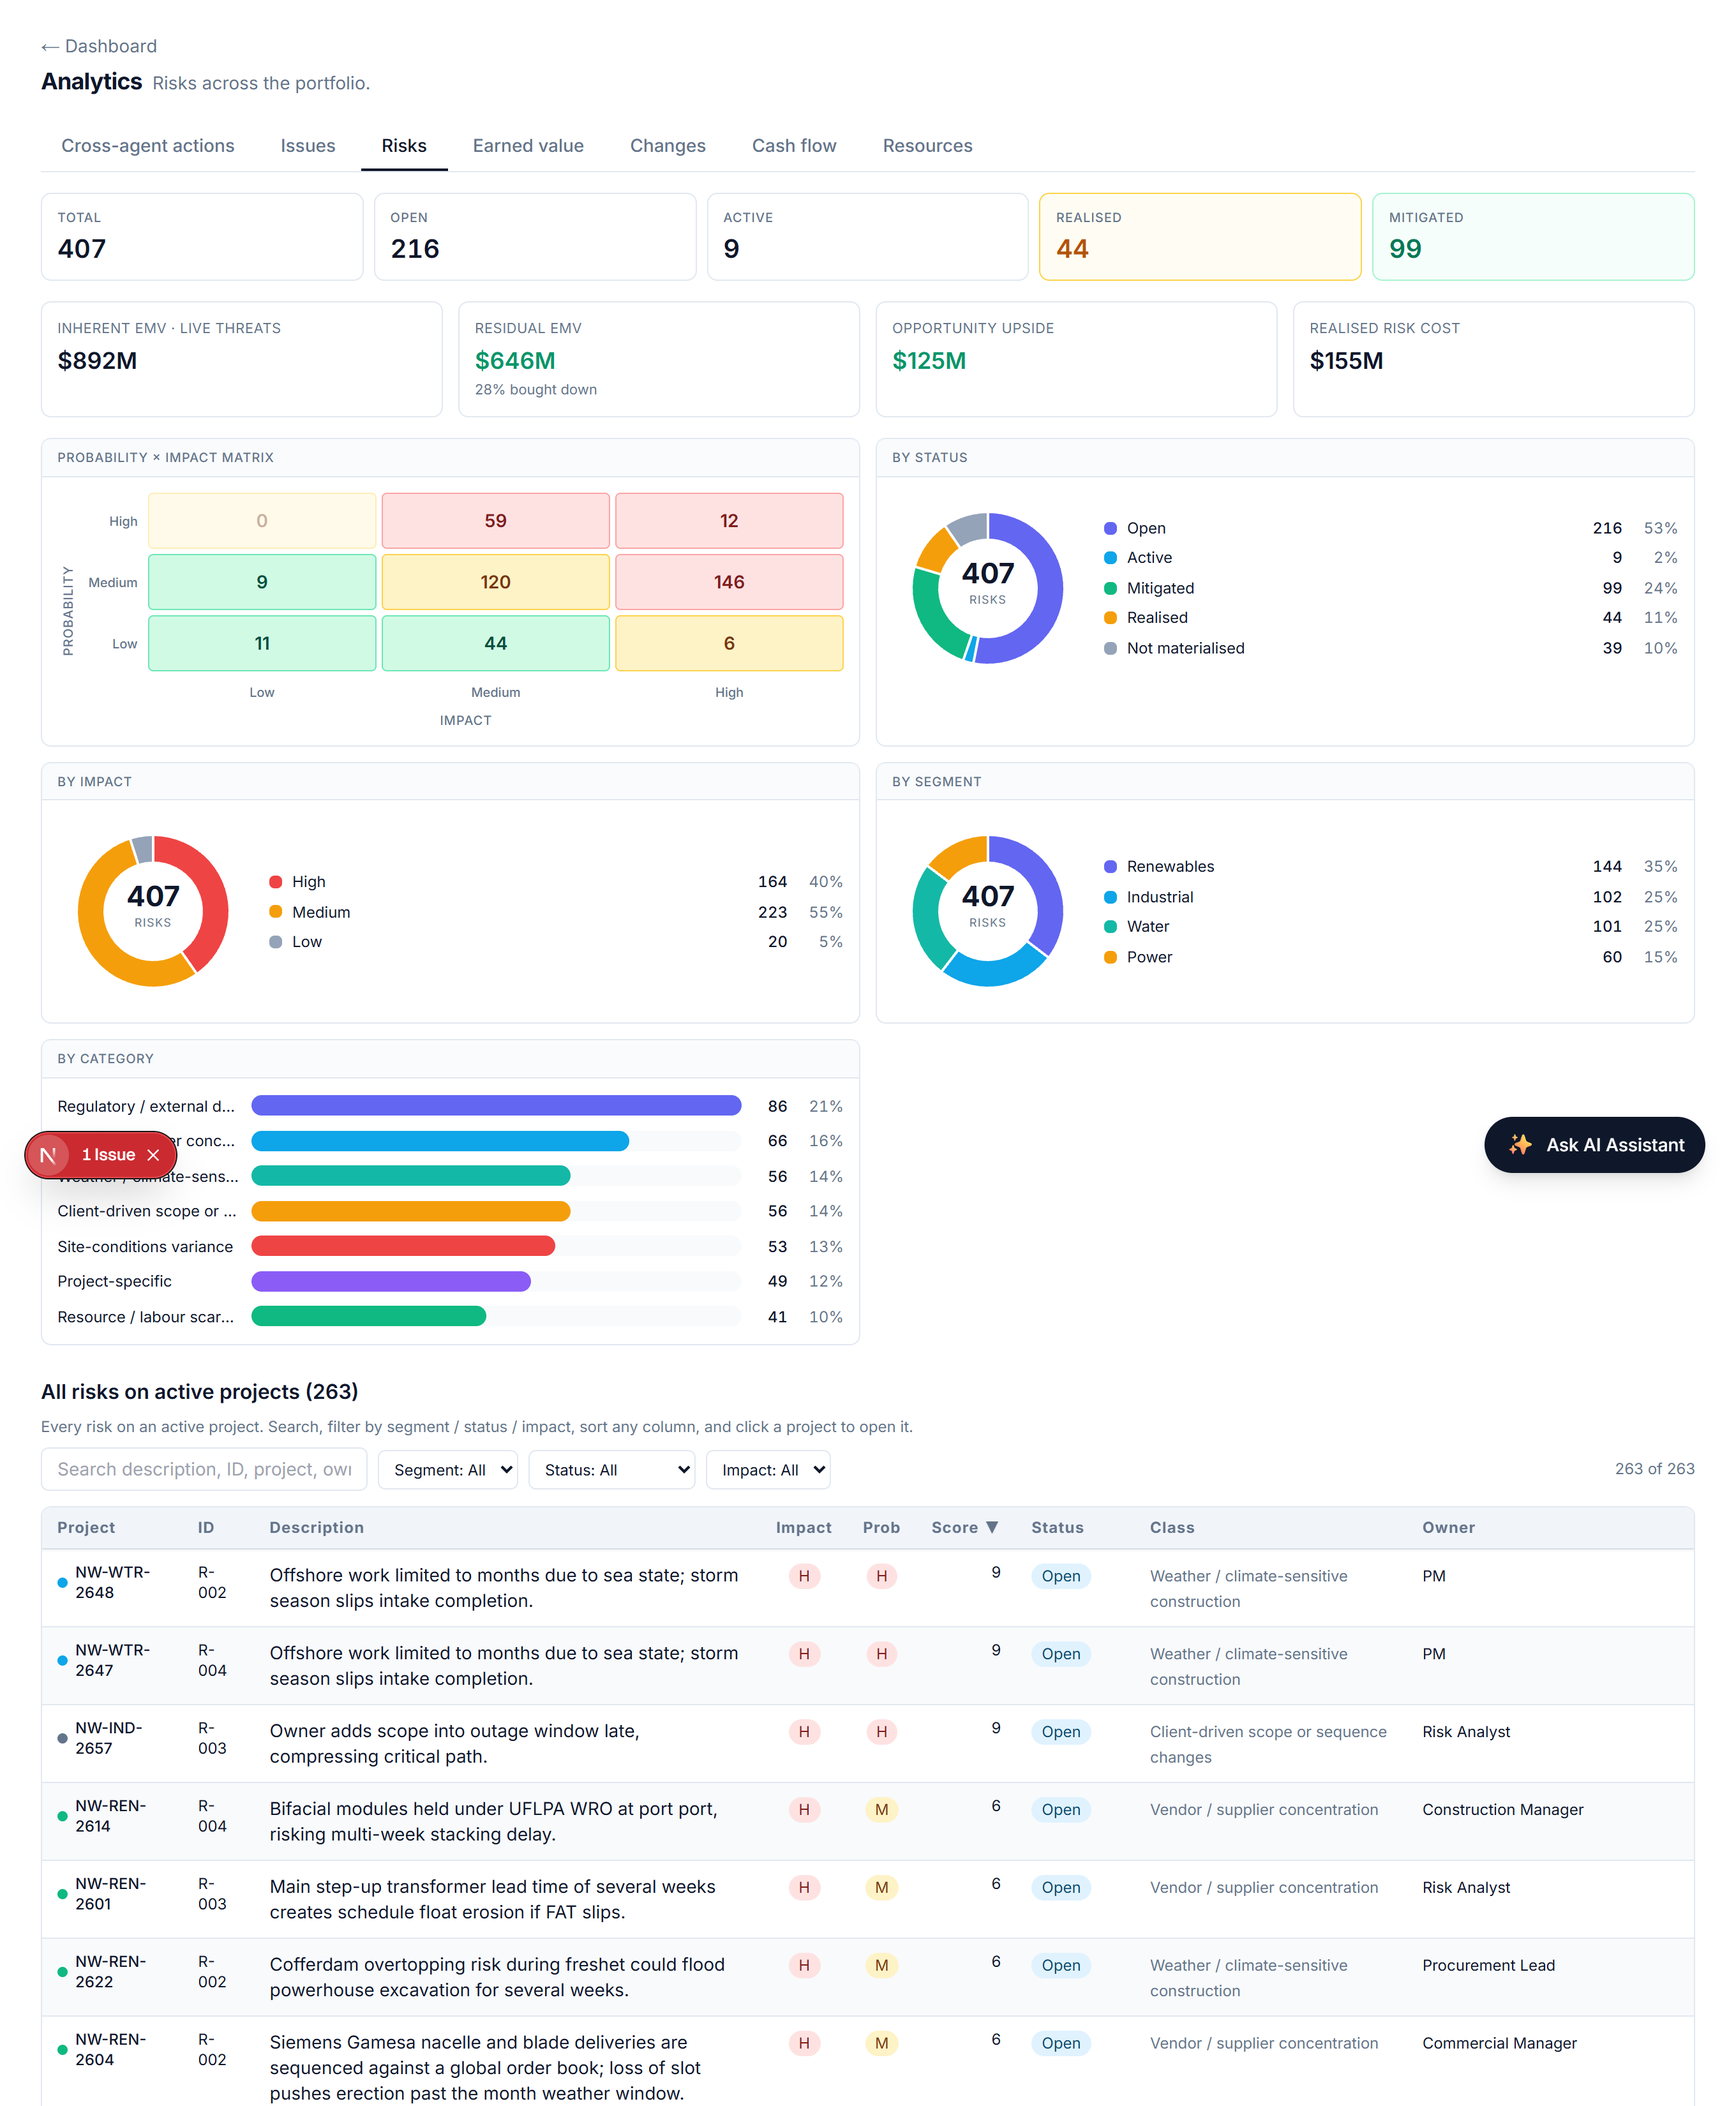
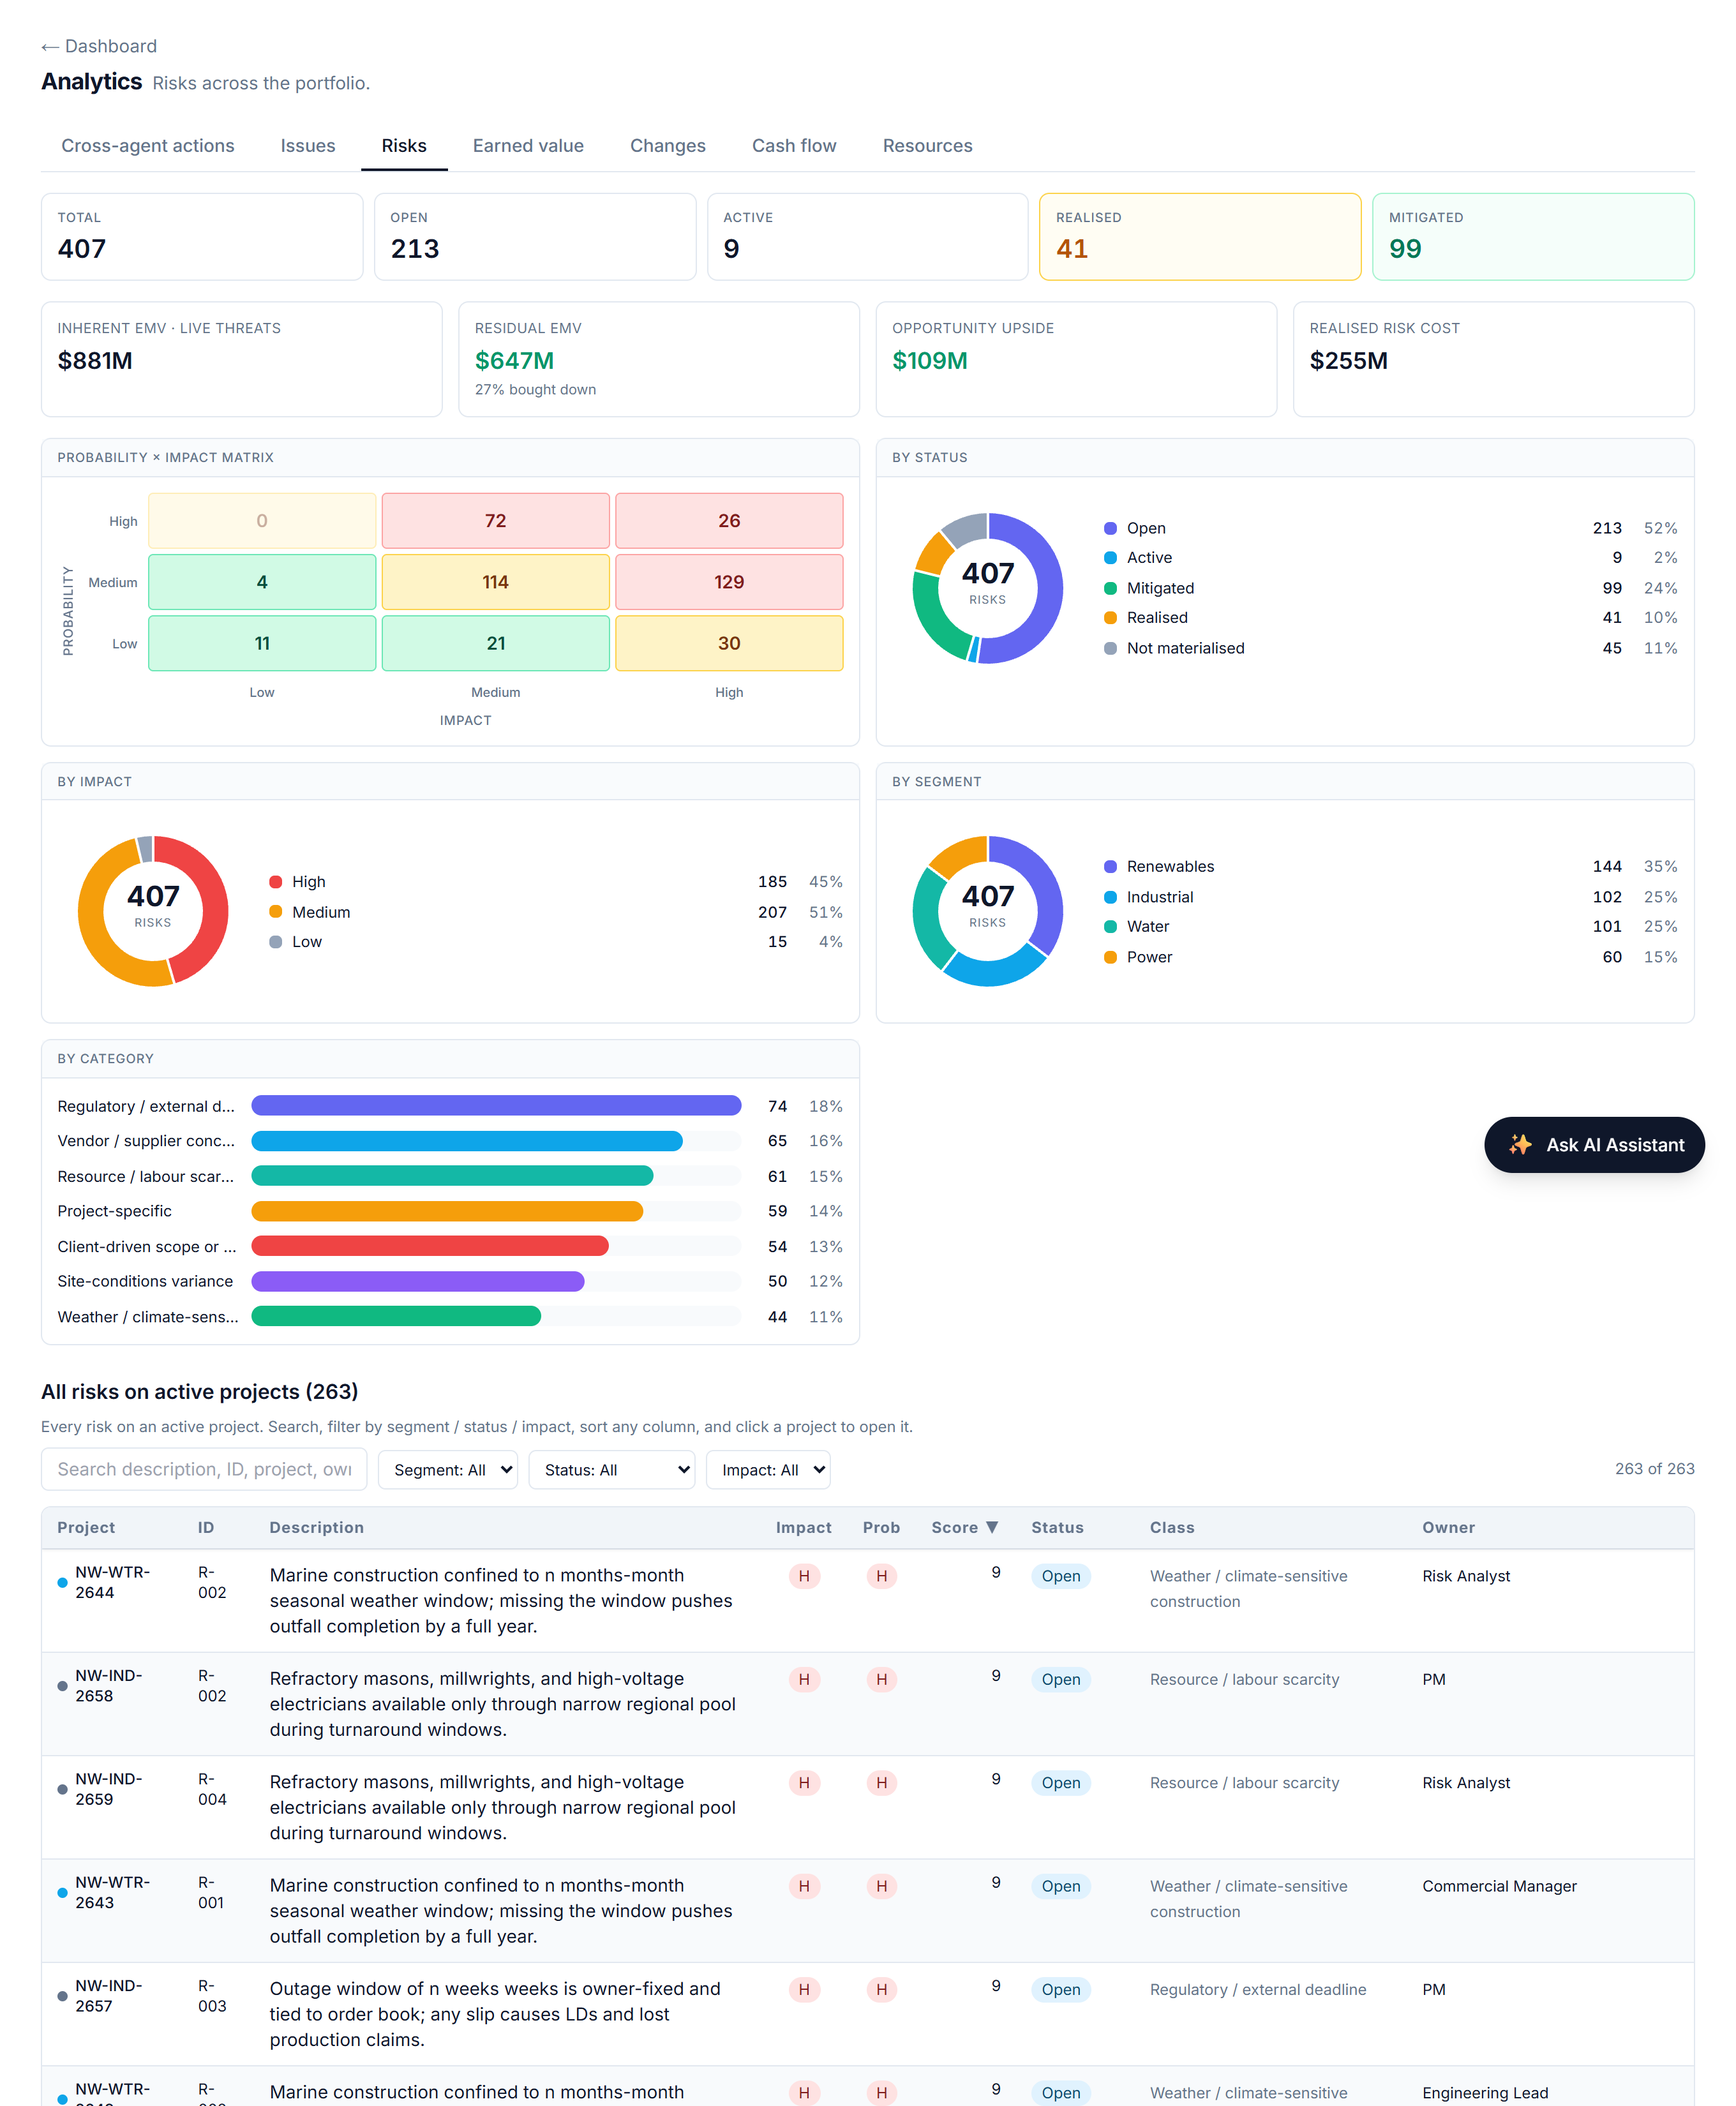
Book: fresh figures captured from the live Railway app; quote shell args on Windows (cover fix for paths with spaces)

diff --git a/docs/book/figures/figures-index.md b/docs/book/figures/figures-index.md
@@ -8,6 +8,7 @@ Generated by `scripts/capture-figures.mjs`. Embed in a chapter with:
 
 | File | Chapter | Caption |
 | --- | --- | --- |
+| 00-welcome-gateway.png | A1 | The welcome gateway — what AI PMO is, in one screen. |
 | 01-portfolio-dashboard.png | A1 | Executive portfolio dashboard — health, lifecycle and hot list. |
 | 02-portfolio-earned-value.png | A5 | Portfolio earned value — CPI×SPI quadrant and worst-performer register. |
 | 03-portfolio-cash-flow.png | A8 | Portfolio cash-flow — funding exposure with segment / project drill-down. |
@@ -23,5 +24,4 @@ Generated by `scripts/capture-figures.mjs`. Embed in a chapter with:
 | 15-project-risks.png | A11 | Project risk register — inherent vs residual, EMV, mitigation. |
 | 16-project-changes.png | A10 | Project change & trend register — pipeline, margin impact, drivers. |
 | 17-project-variance.png | A13 | Project variance analysis. |
-| 18-project-structure.png | B3 | Project structure — canonical WBS tree with provenance. |
-| 19-project-schedule.png | A5 | Project schedule — timeline and milestones. |
+| 18-project-structure.png | B3 | Project structure — canonical WBS tree with proven
